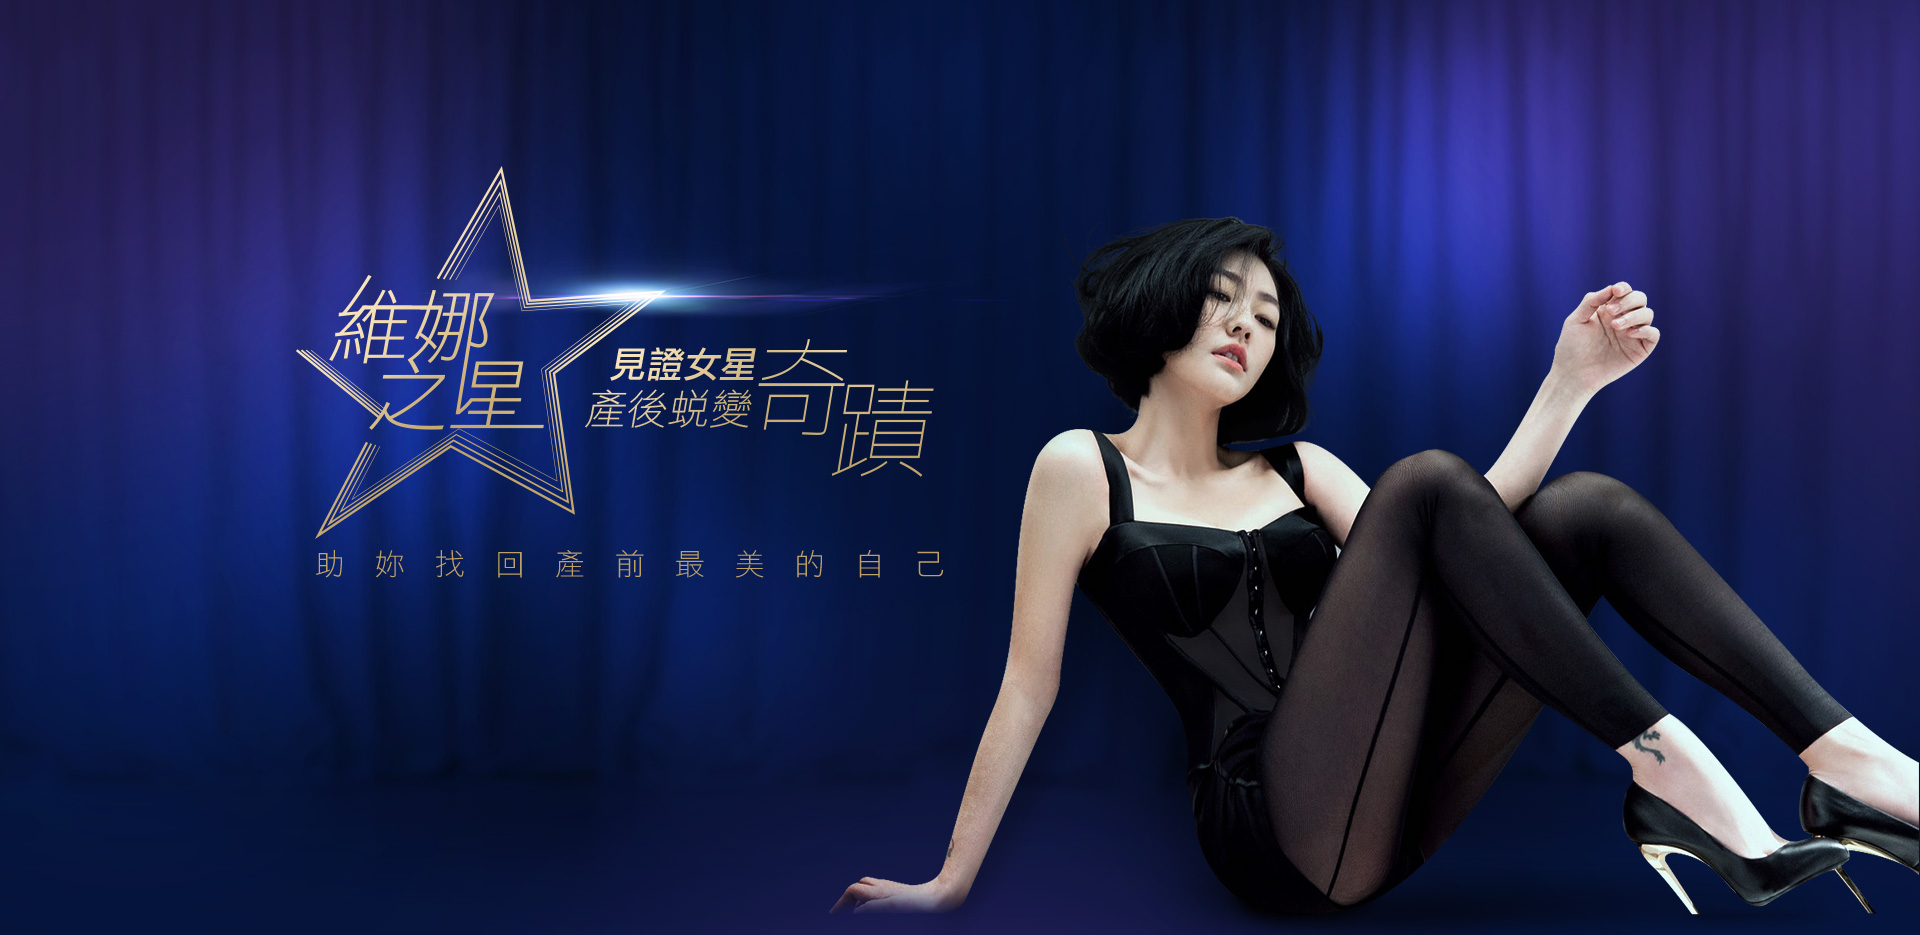
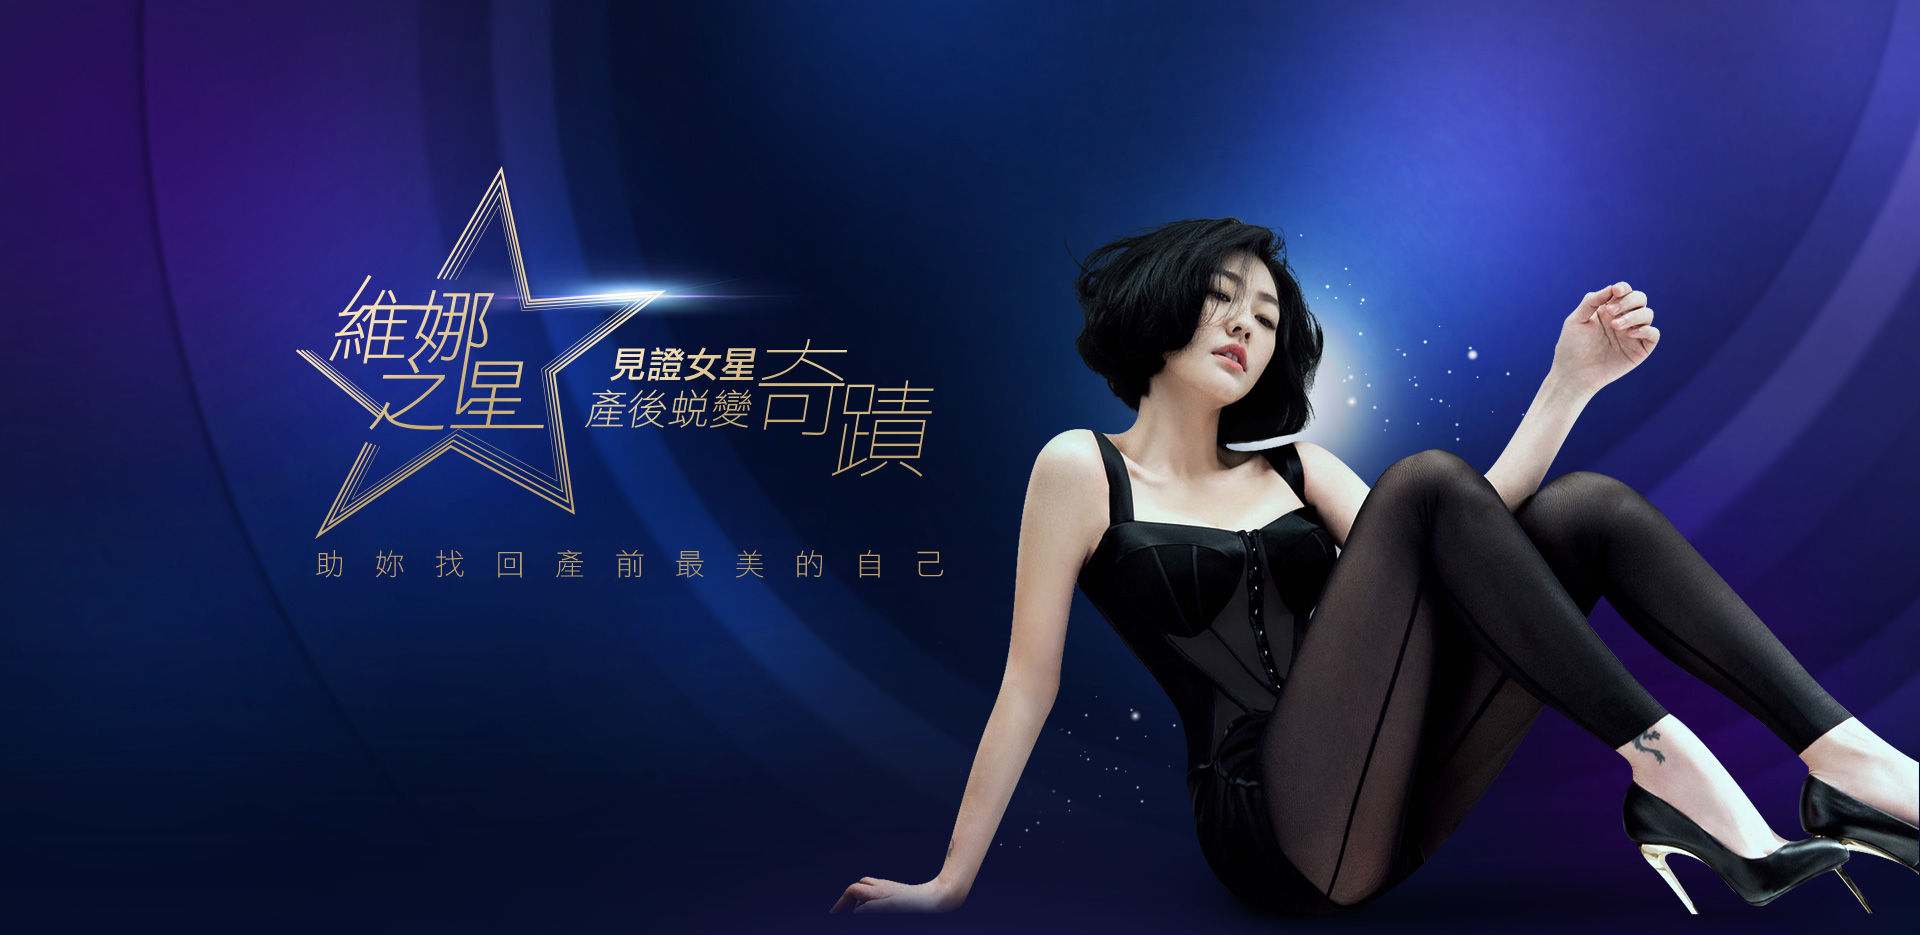
new visual

diff --git a/assets/css/common.css b/assets/css/common.css
@@ -540,7 +540,7 @@ button {
   display: none; }
 
 .kvSection {
-  background-color: #09153e; }
+  background-color: #050e2a; }
   .kvSection .kv {
     width: 100%;
     position: relative; }
@@ -575,8 +575,9 @@ button {
   .kvSection .kv-form {
     background: url("../images/kvbg-pc_w.jpg") no-repeat top center;
     background-size: 100%;
+    background-color: #050e2a;
     margin: 0 auto;
-    padding: 0 2.5rem 180px;
+    padding: 0 2.5rem 205px;
     position: relative;
     z-index: 1; }
     .kvSection .kv-form .kv-formwrap {
@@ -1330,9 +1331,20 @@ button {
             .star02Section .starWrap .star02-content .item .star-text .star-link:hover {
               text-decoration: none;
               opacity: 0.8; }
-          .star02Section .starWrap .star02-content .item .star-text .note {
-            margin: 30px 0 0;
-            font-size: 13px; }
+      .star02Section .starWrap .star02-content .note {
+        display: -webkit-box;
+        display: -ms-flexbox;
+        display: flex;
+        -webkit-box-pack: center;
+        -ms-flex-pack: center;
+        justify-content: center; }
+        .star02Section .starWrap .star02-content .note p {
+          padding: 10px 0 10px;
+          font-size: 13px;
+          color: #fff;
+          position: absolute;
+          z-index: 1;
+          bottom: 25px; }
       .star02Section .starWrap .star02-content .item01 .star-text {
         max-width: 486px;
         padding-top: 156px; }
@@ -1396,7 +1408,9 @@ button {
         padding: 100px 0 0; } }
 
 @media screen and (max-width: 767px) {
-  .star02Section .starWrap .star02-content .item01 .star-text, .star02Section .starWrap .star02-content .item02 .star-text, .star02Section .starWrap .star02-content .item03 .star-text {
+  .star02Section .starWrap .star02-content .item01 .star-text,
+  .star02Section .starWrap .star02-content .item02 .star-text,
+  .star02Section .starWrap .star02-content .item03 .star-text {
     padding-top: 60px; } }
 
 @media screen and (max-width: 640px) {
@@ -1496,7 +1510,8 @@ button {
 @media screen and (max-width: 414px) {
   .star02Section .starWrap .star02-content .item01 .star-text {
     padding-top: 40px; }
-  .star02Section .starWrap .star02-content .item02 .star-text, .star02Section .starWrap .star02-content .item03 .star-text {
+  .star02Section .starWrap .star02-content .item02 .star-text,
+  .star02Section .starWrap .star02-content .item03 .star-text {
     padding-top: 100px; } }
 
 @media screen and (max-width: 375px) {

diff --git a/index.html b/index.html
@@ -435,9 +435,6 @@
                                         <br />
                                         免費量身試穿
                                     </a>
-                                    <div class="note star-pc">
-                                        免責聲明 - 個案見證分享其成效因人而異
-                                    </div>
                                 </div>
                             </div>
                             <div>
@@ -483,9 +480,6 @@
                                         <br />
                                         免費量身試穿
                                     </a>
-                                    <div class="note star-pc">
-                                        免責聲明 - 個案見證分享其成效因人而異
-                                    </div>
                                 </div>
                             </div>
                             <div>
@@ -531,9 +525,6 @@
                                         <br />
                                         一次到位的機會
                                     </a>
-                                    <div class="note star-pc">
-                                        免責聲明 - 個案見證分享其成效因人而異
-                                    </div>
                                 </div>
                             </div>
                             <div>
@@ -547,6 +538,9 @@
                                     <br />
                                     一次到位的機會
                                 </a>
+                            </div>
+                            <div class="item note">
+                               <p>免責聲明 - 個案見證分享其成效因人而異</p> 
                             </div>
                         </div>
                     </div>

diff --git a/assets/css/theme/star.scss b/assets/css/theme/star.scss
@@ -301,10 +301,18 @@
                             opacity: 0.8;
                         }
                     }
-                    .note {
-                        margin: 30px 0 0;
-                        font-size: 13px;
-                    }
+                }
+            }
+            .note {
+                display: flex;
+                justify-content: center;
+                p {
+                    padding: 10px 0 10px;
+                    font-size: 13px;
+                    color: #fff;
+                    position: absolute;
+                    z-index: 1;
+                    bottom: 25px;
                 }
             }
             .item01 {
@@ -406,19 +414,17 @@
     .star02Section {
         .starWrap {
             .star02-content {
-                .item01,.item02 ,.item03{
-                    
+                .item01,
+                .item02,
+                .item03 {
                     .star-text {
-                        padding-top:60px;
+                        padding-top: 60px;
                     }
                 }
-               
             }
         }
     }
 }
-
-
 
 // mobile layout
 @media screen and (max-width: 640px) {
@@ -553,18 +559,17 @@
     .star02Section {
         .starWrap {
             .star02-content {
-                .item01{
-                    
+                .item01 {
                     .star-text {
-                        padding-top:40px;
+                        padding-top: 40px;
                     }
                 }
-                .item02 ,.item03{
+                .item02,
+                .item03 {
                     .star-text {
-                        padding-top:100px;
+                        padding-top: 100px;
                     }
                 }
-               
             }
         }
     }

diff --git a/assets/css/theme/index.scss b/assets/css/theme/index.scss
@@ -1,5 +1,5 @@
 .kvSection {
-    background-color: #09153e;
+    background-color: #050e2a;
     .kv {
         width: 100%;
         position: relative;
@@ -44,8 +44,9 @@
     .kv-form {
         background: url('../images/kvbg-pc_w.jpg') no-repeat top center;
         background-size: 100%;
+        background-color: #050e2a;
         margin: 0 auto;
-        padding: 0 2.5rem 180px; //180px為背景下方調整
+        padding: 0 2.5rem 205px; //180px為背景下方調整
         position: relative;
         z-index: 1;
         .kv-formwrap {
